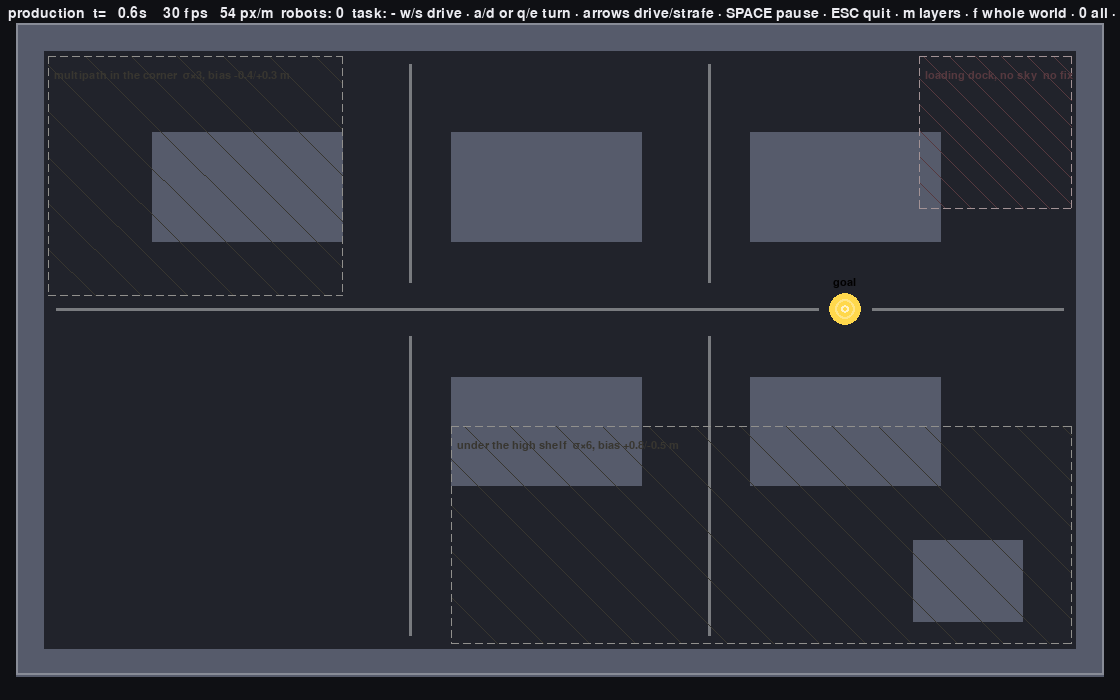
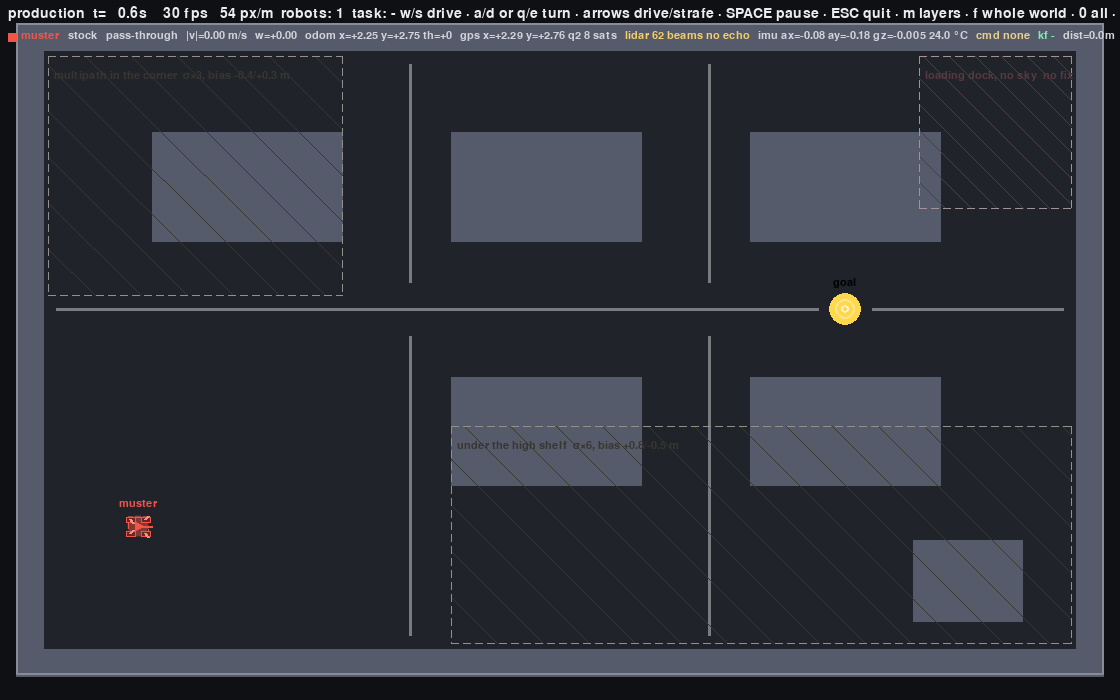
Draw the robot the physics has: the screen mapping was mirrored
The window told students an O layout while `physics.inverse_kinematics()` implements an X.
Two separate mistakes, both invisible from inside the file that made them:

* `body(-theta, dx, dy)` was used wherever a *direction* had to be drawn. The camera in
  `px()` maps a world position with one sign change (screen y grows downwards), and a
  direction needs the same sign change: `screen(theta, dx, dy) = body(-theta, dx, -dy)`.
  The two agree for every vector with no y component — the chassis plate's long axis, the
  heading line, the velocity arrow, the collision circle — and mirrored the ones that had
  one: the 45° roller axes. A rectangle looks the same with an axis flipped, so the plate
  hid it; the wheels did not.
* the marker shapes were authored as screen angles of an unrotated robot, so the tip of the
  triangle sat at the robot's left. A robot facing +x wore a heading marker 90° away from
  the heading line drawn next to it.

Tests, each verified by putting the old code back and watching it fail: `screen()` against
the camera's own mapping, the free-glide axis of every wheel derived from
`inverse_kinematics()` against the segment `_wheel()` asks pygame to draw (the drawing call,
not the pixels: a tyre here is 20 px across and an axis fitted from that cannot tell a
mirror image from rounding), and the marker nose against the heading.

The documentation figures were rebuilt from the commands README prints, and README's key
[…]

Changed region(s): [[0.0, 0.03, 1.0, 0.06], [0.0938, 0.72, 0.1562, 0.78]]

diff --git a/tests/test_render_c.py b/tests/test_render_c.py
@@ -6,6 +6,7 @@ the contract (engine.world, engine.robots, engine.t, engine.task). All of it hea
 import contextlib
 import math
 import statistics
+import unittest.mock as mock
 import time
 from types import SimpleNamespace
 
@@ -64,6 +65,38 @@ def gui(engine=None, cfg=None):
         yield rend
     finally:
         rend.close()
+
+
+def _to_world(theta: float, bx: float, by: float) -> tuple:
+    """A body-frame direction of a robot at `theta` as a world direction.
+
+    Written out here rather than taken from `render`: the right hand side is the definition of the
+    frame the whole project documents — x forward, y to the left, theta counter-clockwise.
+    """
+    cos_t, sin_t = math.cos(theta), math.sin(theta)
+    return bx * cos_t - by * sin_t, bx * sin_t + by * cos_t
+
+
+def _drawn_at(theta: float, bx: float, by: float) -> tuple:
+    """And the same direction as the camera shows it: `px()` maps a world y downwards on the screen.
+
+    This is the contract `render.screen()` has to satisfy, restated independently of it. Without this
+    step a test of the drawing can only ever compare a drawing with the transform it was drawn by, and
+    passes on a mirrored one.
+    """
+    wx, wy = _to_world(theta, bx, by)
+    return wx, -wy
+
+
+def _shift(x: float, y: float, theta: float, mount: tuple) -> tuple:
+    """Where a body-frame point of a robot at `theta` lands in the world (the camera does the rest)."""
+    dx, dy = _to_world(theta, *mount)
+    return x + dx, y + dy
+
+
+def _closest_to(axles: list, point: tuple) -> int:
+    """Which wheel a drawn stripe belongs to: the one whose axle it started nearest to."""
+    return min(range(len(axles)), key=lambda i: math.dist(axles[i], point))
 
 
 def press(key):
@@ -162,6 +195,111 @@ def test_wheel_pixels_stay_inside_the_chassis_box():
             assert rend.screen.get_at((px, py))[:3] != rend.col_floor, f"no wheel at {mx}, {my}"
         far = tuple(int(round(v)) for v in rend.px(robot.pose.x + 2.0, robot.pose.y))
         assert rend.screen.get_at(far)[:3] == rend.col_floor, "a wheel is drawn 2 m ahead"
+
+
+def test_a_body_direction_becomes_the_direction_it_is_drawn_as():
+    """`render.screen()` has to be the camera's own mapping, and the camera is defined in `px()`.
+
+    The world is right-handed with y to the left; the screen is not, its y grows downwards, and
+    `px()` turns a world position into a screen position with exactly one sign change. A *direction*
+    needs the same sign change, which the helper that stood here for years left out: it rotated body
+    vectors by `-theta`, a reflection composed with a rotation. The two agree on every vector along the
+    body x-axis — the long axis of the chassis plate, the heading line, the velocity arrow, and the
+    direction the collision circle is measured in — which is why the difference survived as long as it
+    did. The ones it got wrong were the diagonals: the roller axes of the wheels.
+    """
+    for theta in (0.0, 0.7, math.pi / 2, 2.3, -1.1):
+        for vector in ((1, 0), (0, 1), (1, 1), (1, -1), (-1, 1), (0.3, 0.9)):
+            world = _to_world(theta, *vector)
+            want = (world[0], -world[1])
+            got = render.screen(theta, *vector)
+            assert got[0] == pytest.approx(want[0], abs=1e-9)
+            assert got[1] == pytest.approx(want[1], abs=1e-9), \
+                f"body direction {vector} at {math.degrees(theta):+.0f}° drawn at " \
+                f"{math.degrees(math.atan2(got[1], got[0])):+.1f}°, belongs at " \
+                f"{math.degrees(math.atan2(want[1], want[0])):+.1f}°"
+    assert render.screen(0.0, 0, 1)[1] < 0, "left is up the screen for a robot that faces +x"
+
+
+def test_the_nose_of_a_marker_points_where_that_robot_drives():
+    """A marker says "this corner is the front of that robot", so its nose must lie on the heading.
+
+    The marker angles used to be authored as *screen* angles of an unrotated robot, and the tip of the
+    triangle sat at -90° — up the screen, which is the robot's left. A robot facing +x therefore wore a
+    triangle pointing 90° off its heading while the white heading line beside it pointed forward: two
+    heading indicators on one robot, telling two stories, in the picture a student uses to tell the
+    robots apart. The shapes are authored in the body frame now (0° = forward, counter-clockwise), so
+    every marker that has a corner forward has that corner on the heading at any heading.
+    """
+    nose_markers = ("triangle", "diamond", "pentagon", "star", "cross")   # the ones with a corner at 0°
+    for marker in nose_markers:
+        for theta in (0.0, 0.7, math.pi / 2, 2.3, -1.1):
+            ahead = render.screen(theta, 1, 0)
+            corners = render.shape(marker, (0.0, 0.0), 10.0, theta)
+            best = max(corners, key=lambda p: (p[0] * ahead[0] + p[1] * ahead[1]) / math.hypot(*p))
+            along = (best[0] * ahead[0] + best[1] * ahead[1]) / math.hypot(*best)
+            assert along > 0.99, f"{marker} at {math.degrees(theta):+.0f}°: nose is {along:.2f} ahead"
+
+
+def test_the_roller_strokes_are_drawn_on_the_free_glide_axis_of_their_own_wheel():
+    """Which way the stripes on a tyre lean is the content of a mecanum drawing.
+
+    A wheel is drawn as a rectangle along the direction it is mounted to roll in, with its rollers as
+    stripes across the tread. Those stripes are the free-glide axis, and the wheel is driven along the
+    direction perpendicular to it — which is what `physics.inverse_kinematics()` projects the body
+    velocity onto. The stripes are therefore the one thing in the picture that says which diagonal this
+    robot's layout follows, and the renderer's screen helper used to mirror every direction with a y
+    component, enough to turn the X of the physics into an O: in the figure a student is meant to learn
+    the kinematics from. A rectangle hides a mirror image of its own axes; a stripe does not.
+
+    The stripe is taken from the drawing call rather than from the pixels, deliberately. A tyre is some
+    20 px across, its three stripes are 2 px thick, and where they sit along the tread depends on the
+    wheel phase and so on the frame time: an axis fitted from such ink sits within a few degrees of the
+    truth at best and cannot tell a mirror image from a rounding error. What is checked instead is the
+    segment the renderer asks pygame to draw, per wheel, at four headings — with the free-glide axis of
+    every wheel derived from the kinematics and nothing copied from `render`. The right drawing and the
+    mirrored one are 90° apart, so no tolerance here can blur the two together.
+    """
+    g = physics.Geometry()
+    free_axes = []                                        # one perpendicular per wheel, from physics
+    for i in range(4):
+        vx = physics.inverse_kinematics(g, 1.0, 0.0, 0.0)[i] * g.r      # this wheel's speed at +vx
+        vy = physics.inverse_kinematics(g, 0.0, 1.0, 0.0)[i] * g.r      # ... and at +vy
+        assert (vx, vy) != (0.0, 0.0), f"wheel {i} is driven by nothing, so its stripe says nothing"
+        free_axes.append((-vy, vx))                       # a quarter turn from the driven direction
+
+    robot = make_robot("alice", 0, with_scan=False)
+    stripe = render.mix(render.rgb(robot.spec.rgb), (1, 1, 1), .35)
+    calls = []
+    real_line = pygame.draw.line
+
+    def spy(surface, color, start, end, width=1, **kw):
+        calls.append((tuple(color)[:3], start, end))
+        return real_line(surface, color, start, end, width, **kw)
+
+    for theta in (0.0, 0.6, -1.2, 2.6):
+        robot.pose = Pose(3.0, 2.0, theta)
+        with gui(make_engine({"alice": robot})) as rend:
+            axles = [rend.px(*_shift(3.0, 2.0, theta, m)) for m in
+                     render.wheel_mounts(CFG["robot"]["lx"], CFG["robot"]["ly"])]
+            with mock.patch.object(pygame.draw, "line", spy):
+                calls.clear()
+                rend.draw(cap=False)
+            strokes = [(a, b) for colour, a, b in calls if colour == stripe]
+            assert len(strokes) == 4 * render.WHEEL_STROKES, \
+                f"{len(strokes)} roller strokes drawn, expected one per wheel per stripe"
+            for i, free in enumerate(free_axes):
+                want = _drawn_at(theta, *free)       # where the camera puts this wheel's stripes
+                mine = [(a, b) for a, b in strokes if _closest_to(axles, a) == i]
+                assert len(mine) == render.WHEEL_STROKES, f"wheel {i} owns {len(mine)} stripes"
+                for (ax, ay), (bx, by) in mine:
+                    gx, gy = bx - ax, by - ay
+                    length = math.hypot(gx, gy)
+                    assert length > 1, "a roller stroke of no length is drawn as a point"
+                    along = (gx * want[0] + gy * want[1]) / (length * math.hypot(*want))
+                    assert abs(along) > 0.94, f"wheel {i} at {math.degrees(theta):+.0f}°: roller drawn " \
+                        f"at {math.degrees(math.atan2(gy, gx)):+.0f}° on the screen, its free-glide " \
+                        f"axis is at {math.degrees(math.atan2(want[1], want[0])):+.0f}°"
 
 
 def test_roller_axes_match_the_kinematics_that_drive_the_wheels():

diff --git a/mecanum_lab/render.py b/mecanum_lab/render.py
@@ -40,12 +40,16 @@ WHEEL_SPIN_GAIN = 0.25                              # wheel radius -> on-screen 
 WHEEL_WIDTH_RATIO = 0.6           # drawn width of a wheel, as a fraction of its drawn length
 WHEEL_MIN_PX = 3.0               # below this a wheel is one pixel and says nothing about rollers
 # Marker per robot as a list of (radius, angle in degrees); radius 1 = footprint.
+# The marker of a robot, authored in the **body frame**: angle 0 is forward, counter-clockwise
+# positive — the same convention as the wheels, the kinematics and the topics. The tip of the
+# triangle and the point of the pentagon are at 0 because a marker that points somewhere else than
+# the robot drives is a second heading indicator that contradicts the first.
 SHAPES = {
-    "triangle": [(1, -90), (1, 30), (1, 150)],
+    "triangle": [(1, 0), (1, 120), (1, 240)],
     "square": [(1.2, a) for a in (45, 135, 225, 315)],
     "diamond": [(1.25, a) for a in (0, 90, 180, 270)],
     "circle": [(1, a) for a in range(0, 360, 30)],
-    "pentagon": [(1.15, a) for a in range(90, 450, 72)],
+    "pentagon": [(1.15, a) for a in range(0, 360, 72)],
     "hexagon": [(1.15, a) for a in range(0, 360, 60)],
     "star": [v for a in range(0, 360, 36) for v in ((1.35, a), (.55, a + 18))],
     "cross": [v for a in range(0, 360, 45) for v in ((1.3, a), (.5, a + 22.5))],
@@ -60,6 +64,21 @@ def body(theta: float, dx: float, dy: float) -> tuple:
     """Rotate a vector from the body frame (x forward, y left) into the world."""
     c, s = math.cos(theta), math.sin(theta)
     return (dx * c - dy * s, dx * s + dy * c)
+
+
+def screen(theta: float, dx: float, dy: float) -> tuple:
+    """A body-frame direction as a vector **on the screen**: x right, y down.
+
+    The world is right-handed with y to the left, the screen is not: its y grows downwards. So the
+    screen direction of a body vector is `body(-theta, dx, -dy)` — the mirror of the handy form that
+    was used here for years, which agreed for vectors along the body x-axis and quietly mirrored
+    the ones with a y component. Harmless for the chassis plate — a rectangle looks the same with
+    one of its axes flipped — and not harmless at all for a roller axis at 45°: the X arrangement of
+    the wheels came out as an O, in the one picture a student is meant to learn the kinematics from.
+    Everything that draws a *direction* goes through here; `px()` remains the one that draws a
+    *position*, because that one already flipped y correctly.
+    """
+    return body(-theta, dx, -dy)
 
 
 def rgb(color, factor: float = 1.0) -> tuple:
@@ -97,14 +116,18 @@ def wheel_mounts(lx: float, ly: float) -> list:
 
 
 def shape(name: str, centre: tuple, radius: float, theta: float) -> list:
-    """Corner points of a marker shape in pixels, unknown names drawn as a circle.
+    """Corner points of one marker shape in pixels; an unknown name is drawn as a circle.
 
-    The minus before theta compensates the downward screen y, so the shape turns with the
-    robot instead of standing mirrored.
+    One corner of `SHAPES` is a body-frame direction, `screen()` makes it a screen direction, and
+    the two are multiplied by the same radius for every corner — so the shape turns with the robot
+    and never stands mirrored, whatever the heading.
     """
-    return [(centre[0] + radius * rt * math.cos(math.radians(ang) - theta),
-             centre[1] + radius * rt * math.sin(math.radians(ang) - theta))
-            for rt, ang in SHAPES.get(name) or SHAPES["circle"]]
+    corners = []
+    for span, angle in SHAPES.get(name) or SHAPES["circle"]:
+        reach = radius * span
+        direction = screen(theta, math.cos(math.radians(angle)), math.sin(math.radians(angle)))
+        corners.append((centre[0] + reach * direction[0], centre[1] + reach * direction[1]))
+    return corners
 
 
 # ------------------------------------------------------------------ the layers a run starts with
@@ -369,7 +392,7 @@ class Renderer:
         # collision circle — a tyre drawn past the circle the physics collides with would show a
         # robot that cannot fit through the gaps the grader measures it through.
         wheel_r = min(wr * self.wheel_scale, max(0.01, fp_m - ly))                  # metres
-        u, v = body(-pose.theta, 1, 0), body(-pose.theta, 0, 1)                    # screen vectors
+        u, v = screen(pose.theta, 1, 0), screen(pose.theta, 0, 1)                 # on screen
         chassis_body = self._plate(centre, u, v, plate[0] * self.s, plate[1] * self.s)
         pygame.draw.polygon(sc, mix(col, self.col_floor, .55), chassis_body)
         pygame.draw.polygon(sc, col, chassis_body, 1)
@@ -414,12 +437,12 @@ class Renderer:
         centre = self.px(*_add((pose.x, pose.y), body(pose.theta, *mount)))
         half_len = max(WHEEL_MIN_PX, wheel_r * self.s)          # pixels, along the rolling direction
         half_wid = max(WHEEL_MIN_PX * .5, half_len * WHEEL_WIDTH_RATIO)   # pixels, across it
-        u, v = body(-heading, 1, 0), body(-heading, 0, 1)       # this wheel's axes on screen
+        u, v = screen(heading, 1, 0), screen(heading, 0, 1)          # this wheel's axes on screen
         tyre = self._plate(centre, u, v, half_len, half_wid)
         pygame.draw.polygon(sc, mix(col, (0, 0, 0), .55), tyre)
         if self.s > 45:                                           # a 1 px edge below that is mush
             pygame.draw.polygon(sc, col, tyre, 1)
-        roller = body(-heading, ROLLERS[index][0], ROLLERS[index][1])
+        roller = screen(heading, *ROLLERS[index])
         roller = (roller[0] * half_wid * 1.3, roller[1] * half_wid * 1.3)     # one stroke, full width
         for stroke in range(WHEEL_STROKES):
             share = (phase[index] / math.tau + stroke / WHEEL_STROKES) % 1.0

diff --git a/tests/test_keys_c.py b/tests/test_keys_c.py
@@ -159,3 +159,35 @@ def test_the_help_line_names_every_layer():
     line = keys.help_line(True) + keys.help_line(False)
     for key, _attr, label, _edge in LAYERS:
         assert key in line, f"{label} ({key}) is not in the help line"
+
+
+def test_the_readme_table_is_the_table_and_not_a_memory_of_it():
+    """README's input table is the second place the keyboard is written down — so it is checked.
+
+    The window's help line is generated from `keys.py`, but a table in the documentation is typed by
+    hand, and a hand-typed copy is where the keyboard rotted last time: it went on advertising
+    "`q` turn right" after `q` had been made to turn left, and "`l t g k w v d …`" after `w`, `s` and
+    `d` had been handed back to driving. Both are sentences a reader would act on.
+
+    So the two things that must agree with the code are taken from the code: the sequence of layer
+    keys, and the direction the turn keys turn in. A row that renames a key or flips a direction fails
+    here rather than in front of a class.
+    """
+    readme = (os.path.dirname(os.path.dirname(os.path.abspath(__file__))) + "/README.md")
+    with open(readme, encoding="utf-8") as fh:
+        text = fh.read()
+    rows = [line for line in text.splitlines() if line.startswith("| `")]
+
+    layer_keys = keys.layer_hint().split("layers: ")[1]
+    assert f"| `{layer_keys}`" in text, f"README does not list the layer keys {layer_keys}"
+    for key, _attr, label, _edge in LAYERS:
+        assert key in layer_keys, f"{label} is on key {key}, which README cannot show"
+
+    turning = [row for row in rows if "`q`" in row and "`e`" in row]
+    assert len(turning) == 1, f"README documents the turn keys {len(turning)} times"
+    assert "left/right" in turning[0][turning[0].index("`q`"):], (
+        f"README promises q turns the other way again: {turning[0]}")
+
+    driving = " ".join(rows)
+    for pair in ("`w`/`s` drive", "`a`/`d` turn", "`Up`/`Down` drive", "`Left`/`Right` **strafe**"):
+        assert pair in driving, f"README has stopped documenting {pair}"

diff --git a/mecanum_lab/overlays.py b/mecanum_lab/overlays.py
@@ -90,7 +90,7 @@ def zone_label(zone: dict) -> str:
 
 def odom_ghost(rend, robot) -> None:
     """Ghost chassis at the odometry pose, leader line to the truth, gap in metres."""
-    from .render import body, mix, rgb
+    from .render import mix, rgb, screen
     o = getattr(robot, "odom", None)
     if not o:
         return
@@ -103,7 +103,7 @@ def odom_ghost(rend, robot) -> None:
     g = getattr(robot.chassis, "geom", None)
     half_l = (float(getattr(g, "lx", .14)) + float(getattr(g, "r", .05))) * rend.chassis_scale
     be = (float(getattr(g, "ly", .13)) + float(getattr(g, "r", .05))) * rend.chassis_scale
-    u, v = body(-o.theta, 1, 0), body(-o.theta, 0, 1)
+    u, v = screen(o.theta, 1, 0), screen(o.theta, 0, 1)      # the ghost is drawn like the real thing
     pygame.draw.polygon(sc, fill, _plate(ghost, u, v, half_l * rend.s, be * rend.s))
     pygame.draw.polygon(sc, edge, _plate(ghost, u, v, half_l * rend.s, be * rend.s), 1)
     if math.dist(truth, ghost) > 3:
@@ -114,7 +114,7 @@ def odom_ghost(rend, robot) -> None:
 
 def skid_marks(rend, robot, dt: float) -> None:
     """Rubber on the floor while the wheels turn and the body cannot — `robot.slip` made visible."""
-    from .render import body, mix
+    from .render import body, mix, screen        # body() for the world offset, screen() for the stroke
     trail = rend.__dict__.setdefault("skid_trail", [])          # state on the renderer, not here
     g = getattr(robot.chassis, "geom", None)
     rder = getattr(robot, "wheels", None) or [0.0]
@@ -133,7 +133,7 @@ def skid_marks(rend, robot, dt: float) -> None:
             continue
         alive.append((x, y, theta, life))
         center = rend.px(x, y)
-        stroke = body(-theta, 5 * life, 0)
+        stroke = screen(theta, 5 * life, 0)      # the mark lies along the driven direction
         pygame.draw.line(sc, mix(bg, rend.col_floor, 1 - life),
                          (center[0] - stroke[0], center[1] - stroke[1]),
                          (center[0] + stroke[0], center[1] + stroke[1]), 2)

diff --git a/README.md b/README.md
@@ -76,11 +76,19 @@ To keep the in-process bus even with ROS: `MECANUM_ROS=stub ./lab sim --headless
 | mouse wheel | zoom **to the cursor** · `+`/`-` zoom to the middle · `f` shows the whole world |
 | drag with the left button | pan (the map follows the mouse) · right button centres again |
 | `1`…`9` / `0` | follow one robot / show everything · window resizable, the camera keeps up |
-| `Up`/`Down` drive · `Left`/`Right` **strafe** | keyboard driving, on unless `--no-teleop`; the keys set body speeds, this is not a game |
-| `q` or `,` turn right · `e` or `.` turn left | ±0.9 rad/s yaw. With teleop on, `q` **turns** instead of quitting — `ESC` or the window's close button ends the run |
+| `w`/`s` drive · `a`/`d` turn | car-style keyboard driving, on unless `--no-teleop`; the keys set body speeds, this is not a game |
+| `Up`/`Down` drive · `Left`/`Right` **strafe** | the same keys as the four degrees of freedom of a mecanum chassis instead of a car's two |
+| `q`/`e` (or `,`/`.`) turn left/right | ±0.9 rad/s yaw. With teleop on, `q` **turns** instead of quitting — `ESC` or the window's close button ends the run |
 | `SPACE` pause | `q` quits only when teleop is off |
 | `m` | opens the layer menu (starts closed so it covers nothing): lidar scan, odometry trail, gps fix, estimate + σ ellipse, wheels, velocity vector, floor markings, goal, readout lines, gps shadow zones, odometry ghost + drift, radiation source + field, radio link + access point |
-| `l t g k w v d z h s o p n` | switch a single layer — the same as clicking its row (`s` GPS shadow, `o` odometry ghost, `p` radiation source and its field rings, `n` the radio link) |
+| `l t g k r v c z h x o p n` | switch a single layer — the same as clicking its row (`r` wheels, `c` floor markings, `x` GPS shadow, `o` odometry ghost, `p` radiation source and its field rings, `n` the radio link) |
+
+The window starts in the **clean view**: the robot, the world and the readout line, without the four
+*raw measurement* layers (lidar scan, odometry trail, gps fix, odometry ghost) that otherwise cover the
+map a student is meant to look at. Nothing is hidden on the bus — a `ros2 topic echo` sees all of it —
+only on screen. `--view sensors` starts with everything on, `--layers scan,ghost` turns single layers on
+and `--layers -hud` turns one off, and one demo config that is about a raw layer (`config/demo_*.json`)
+asks for that layer itself, so `./lab demo …` always shows what the demo is about.
 
 The menu switches **drawing only**. `/<robot>/scan`, `/odom`, `/gps`, `/imu`, `/poi` and your `kf/pose`
 keep running at full rate; `ros2 topic hz /alice/scan` does not care what the window shows. That
@@ -231,25 +239,31 @@ that way rather than photographed off a monitor: `--frame-max N` stops after N d
 of the build that checks it —
 
 ```bash
-./lab sim --world production --config config/demo_gps_shadow.json --headless --fixed-step \
-          --frame-max 30 --screenshot docs/img/readout-gps-shadow.png
-./lab sim --world production --config config/demo_wifi.json --headless --fixed-step \
-          --frame-max 30 --screenshot docs/img/readout-radio.png
+./lab sim --world production --config config/demo_gps_shadow.json --robots muster \
+          --headless --fixed-step --frame-max 30 --screenshot docs/img/readout-gps-shadow.png
+./lab sim --world production --config config/demo_wifi.json --robots muster \
+          --headless --fixed-step --frame-max 30 --screenshot docs/img/readout-radio.png
 ```
 
-Both lines run in the headless CI (dummy video driver) and `tests/test_readout_pictures_w7.py` runs
-them, checks the PNG and its size against the config, checks that the frame is not one flat colour, and
-checks that the sim time printed for frame 30 is the same number twice. `tools/worldpic.py` draws the
-arenas the same way and `check.sh` draws both, so a stale picture cannot survive a build.
+Both lines run in the headless CI (dummy video driver). `tests/test_readout_pictures_w7.py` reads them
+out of this file — a test with its own copy of a command proves nothing about the command in the
+documentation — runs them, and compares the picture in the repository with what the command draws
+today, byte for byte below the two text lines. It also insists that a robot is drawn in both, because a
+frame of an empty hall once passed every size and colour check there was. `tools/worldpic.py` draws the
+arena picture the same way, and a figure that cannot be regenerated by the command next to it is a
+figure that is quietly lying.
 
-![Frame 30 of `config/demo_gps_shadow.json` on `production`, 0.60 s of simulation time: the robot at
-its spawn pose with the readout line under it. The shadow zones are the two grey rectangles at the
-right edge of the hall — this frame is before the robot reaches one, and the `ellipse 2σ: half-axis
-… m = … px at 54 px/m` segment is what one pixel of that ellipse is worth.](docs/img/readout-gps-shadow.png)
+![Frame 30 of `config/demo_gps_shadow.json` on `production`, 0.60 s of simulation time: the robot at its
+spawn pose, and the readout line at the top of the window making the point of the demo — its own
+odometer says `x=+2.25 y=+2.75` while the GPS fix for the same instant says `x=+2.29 y=+2.76`, five
+centimetres of error at a robot that has not moved, with `q2 8 sats`. `kf -` is a dash because the
+estimate is the student's node and this run is the simulator alone. The hatched rectangles are the GPS
+shadow zones, each labelled with what it does to a fix; the robot starts outside all of them.](docs/img/readout-gps-shadow.png)
 
 ![Frame 30 of `config/demo_wifi.json`, the same 0.60 s: the access point at the left wall, the robot at
-the spawn pose with the link bar above it and the `link …` segment in the readout line — the best the
-link gets in this hall, which is the other half of the story the table below measures.](docs/img/readout-radio.png)
+the spawn pose with the link-quality bar above it, and the `wifi q 1.00 -43.6` segment at the right end
+of the readout line — the best the link gets in this hall, which is the other half of the story the
+table below measures.](docs/img/readout-radio.png)
 
 *What these two frames are and are not:* they are the readout line and the map at the spawn pose, which
 is the state a headless build reaches without anyone driving. A picture of a robot **inside** the shadow
